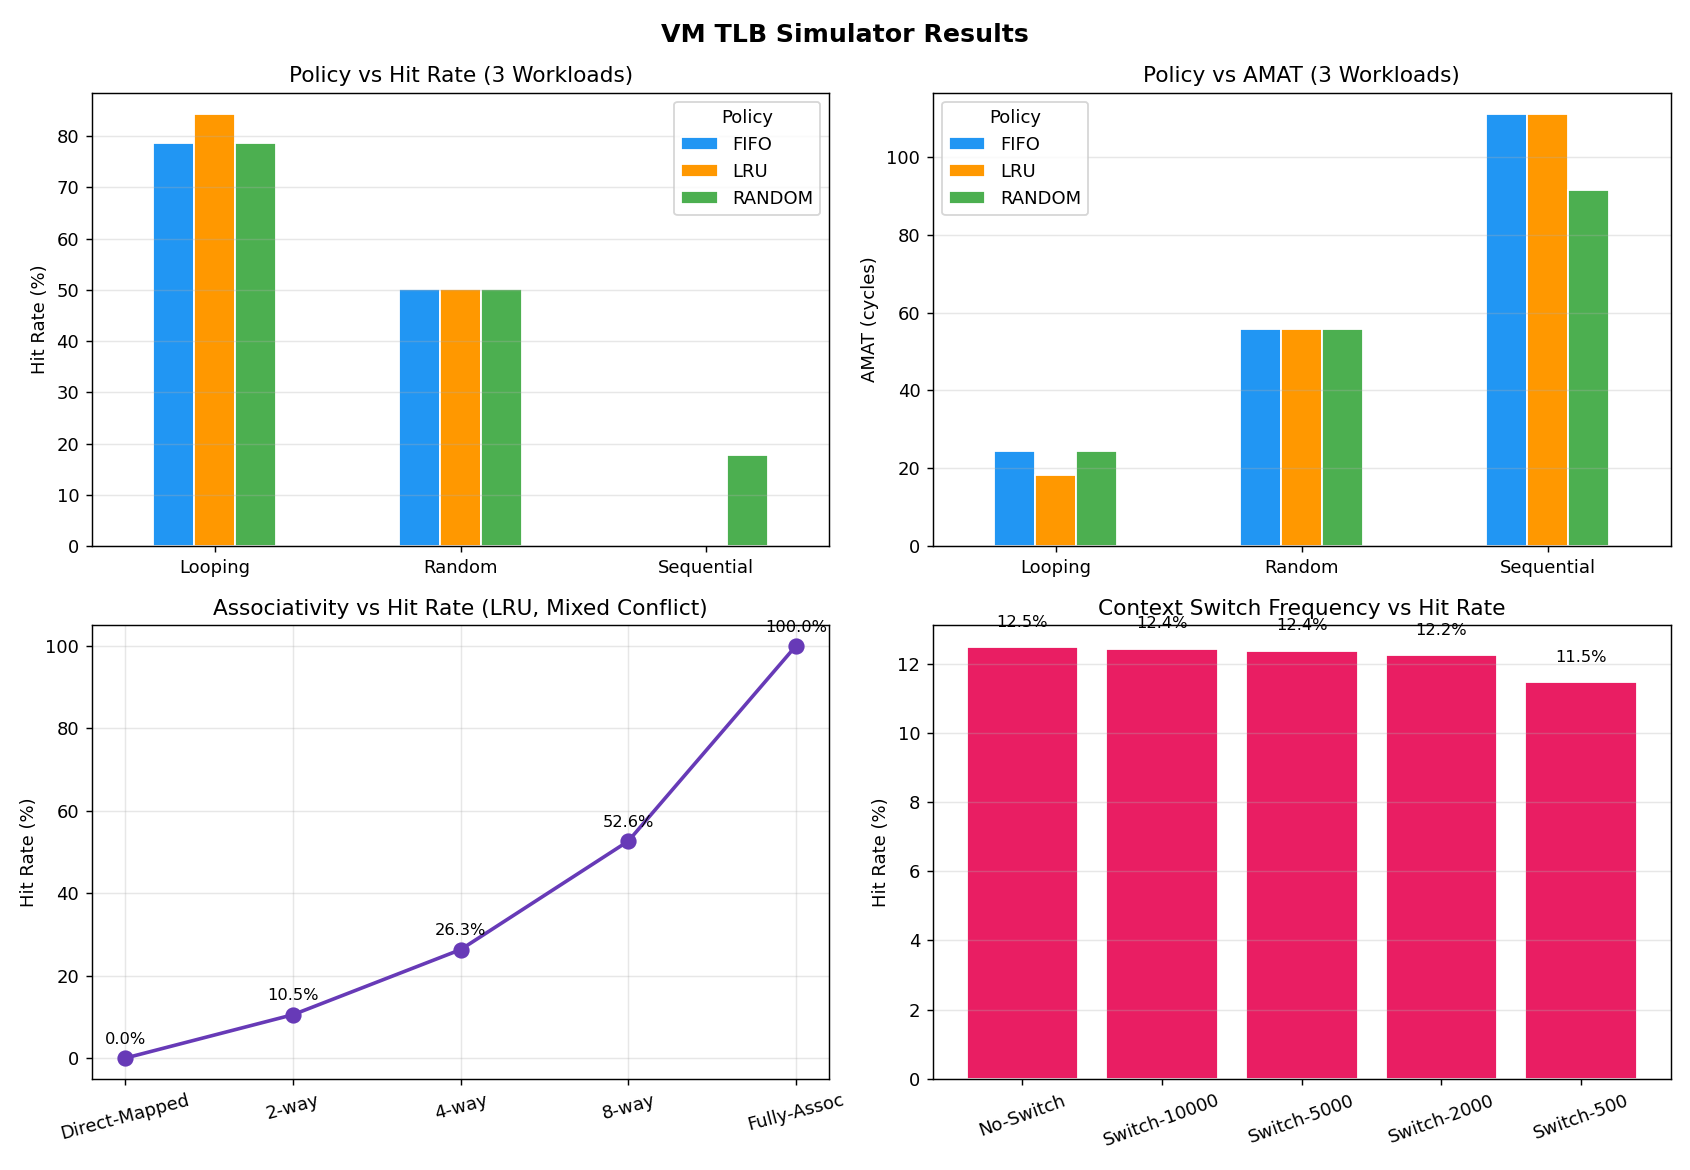
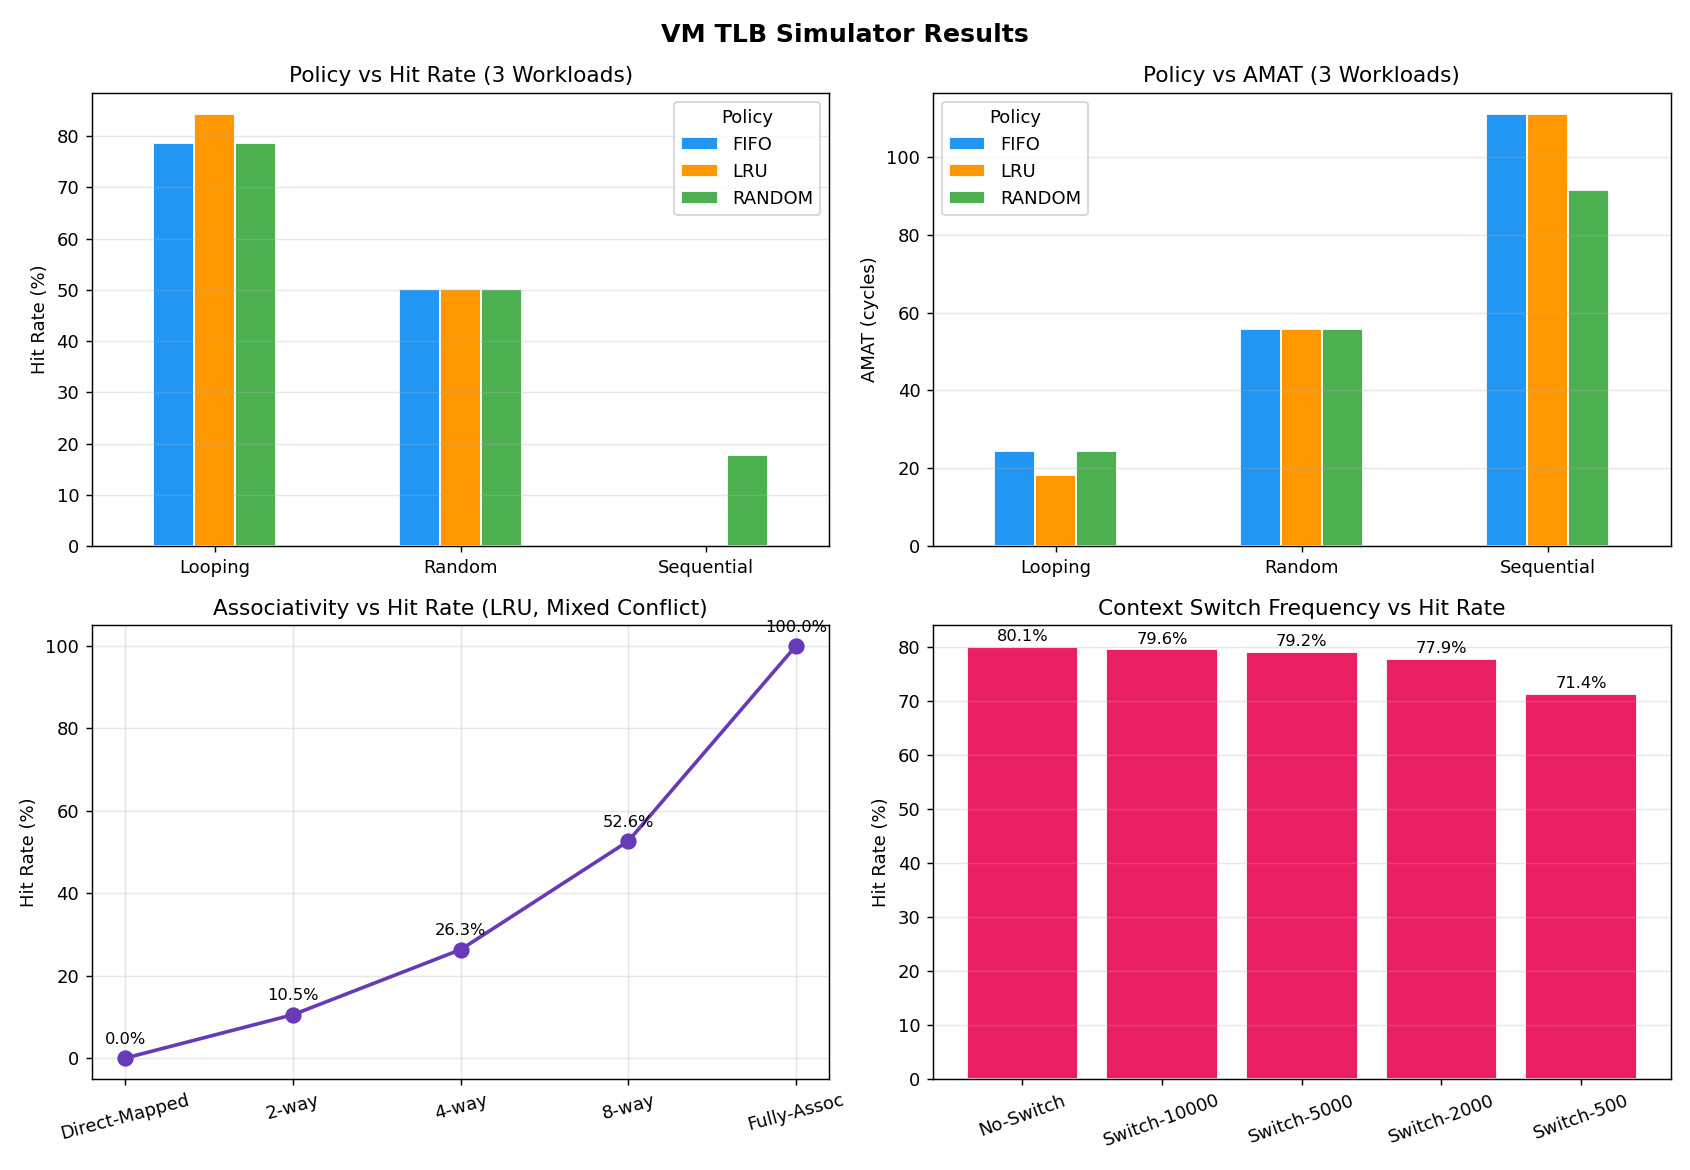
Updated few final comments

diff --git a/Project/VM_TLB_Simulator/WorkloadGenerator.h b/Project/VM_TLB_Simulator/WorkloadGenerator.h
@@ -23,9 +23,9 @@ public:
                                      int hot_pages = 50) // used for LOOPING and WORKING_SET. Number of frequently reused pages.
                                      
     {
-        static std::mt19937 rng(42);
+        static std::mt19937 rng(42); //Mersenne Twister random number generator seeded with a fixed value for reproducibility
         
-        std::vector<int> trace; //creates a vector to hold the generated memory access trace
+        std::vector<int> trace; //creates an empty vector to hold the generated memory access trace
         trace.reserve(accesses); //reserves memory for the specified number of accesses (pre-allocates memory)
 
         switch (type) {
@@ -70,6 +70,8 @@ public:
         }
 
         case WorkloadType::WORKING_SET: {
+            int hot_pages = max_address / page_size; //80 hot pages by default
+
             if (hot_pages <= 0) return trace; // Guard against invalid or no hot_pages
 
             std::vector<int> hot_addrs; //Creates a vector of hot addresses
@@ -80,47 +82,41 @@ public:
             }
 
             for (int i = 0; i < accesses; i++) { //Generates accesses by repeatedly cycling through the hot addresses
+               // int idx = i % hot_pages; // cycle through working set
+                int idx = rand() % hot_pages; // randomize within working set
+                trace.push_back(hot_addrs[idx]);                
             }
             break;
         }
 
         case WorkloadType::CONFLICT: {
             // This workload is designed to demonstrate associativity more logically.
-            // Pages in each group differ by 64 VPNs, so they alias to the same set
-            // for num_sets = 64, 32, 16, and 8.
-            //
-            // Group sizes:
-            //   2-page group -> fits in 2-way and above
-            //   3-page group -> fits in 4-way and above
-            //   5-page group -> fits in 8-way and above
-            //   7-page group -> strong pressure, still fits in fully-associative
-            //
-            // Total unique VPNs = 2 + 3 + 5 + 7 = 17 (< 64),
-            // so fully-associative should approach 100% after warmup.
+            // It creates pages that map to the same TLB sets.
 
-            const int stride = 64;
+            const int stride = 64; //because TLB size is 64 entries, this stride will cause all addresses to map to the same set in a direct-mapped TLB, and create varying levels of conflict for higher associativities.
 
-            std::vector<std::vector<int>> groups;
-
-            auto make_group = [&](int base, int size) {
+            std::vector<std::vector<int>> groups; //stores groups of addresses that will conflict with each other (maps to same set index of TLB) in the TLB. 
+            auto make_group = [&](int base, int size) { //base is the starting page number, size is how many pages in the group.
+                
                 std::vector<int> g;
                 g.reserve(size);
+                
                 for (int k = 0; k < size; k++) {
                     int vpn = base + k * stride;
-                    g.push_back(vpn * page_size);
+                    g.push_back(vpn * page_size); //convert VPN to a virtual address
                 }
                 return g;
             };
 
-            // base values kept below 8 so mapping stays clean for all tested configs
-            groups.push_back(make_group(0, 2)); // helps 2-way+
-            groups.push_back(make_group(1, 3)); // helps 4-way+
-            groups.push_back(make_group(2, 5)); // helps 8-way+
-            groups.push_back(make_group(3, 9)); // strongest pressure
+            // test groups designed to create different levels of conflict for different associativities:
+            groups.push_back(make_group(0, 2));  // Two pages competing in one set
+            groups.push_back(make_group(1, 3)); 
+            groups.push_back(make_group(2, 5)); 
+            groups.push_back(make_group(3, 9)); 
 
             while ((int)trace.size() < accesses) {
-                for (const auto& g : groups) {
-                    for (int addr : g) {
+                for (const auto &g : groups) { //Loop through each conflict group
+                    for (int addr : g) { //Loop through each address in the group
                         if ((int)trace.size() >= accesses) break;
                         trace.push_back(addr);
                     }

diff --git a/Project/VM_TLB_Simulator/main.cpp b/Project/VM_TLB_Simulator/main.cpp
@@ -119,12 +119,12 @@ std::vector<SimulationResult> exp_assoc(int accesses, int page_size) {
 // 512 VPNs random — enough reuse that TLB warmup matters
 // Each flush kills warm TLB entries, clearly visible at high flush frequencies
 std::vector<SimulationResult> exp_ctx(int accesses, int page_size) {
-    printHeader("EXP 3: Context Switch Impact (LRU, 4-way, Random)");
+    printHeader("EXP 3: Context Switch Impact (LRU, 4-way, Working_Set)");
 
-    const int max_addr = 512 * page_size;
+    const int max_addr = 80 * page_size;
     
     auto trace = WorkloadGenerator::generate(accesses, max_addr,
-                     WorkloadGenerator::WorkloadType::RANDOM, page_size); // Generate a random workload with 512 unique VPNs
+                     WorkloadGenerator::WorkloadType::WORKING_SET, page_size); // Generate a working set workload with 80 unique VPNs
 
     std::vector<int> intervals = {0, 10000, 5000, 2000, 500}; // Context switch intervals (0 means no context switches, 10,000 means flush every 10k accesses, etc.)
     

diff --git a/Project/VM_TLB_Simulator/PageTable.h b/Project/VM_TLB_Simulator/PageTable.h
@@ -1,9 +1,7 @@
 #ifndef PAGETABLE_H
 #define PAGETABLE_H
 
-//#include <vector>
 #include <unordered_map>
-//#include <stdexcept>
 
 // ─────────────────────────────────────────────────────────────────────────────
 //  Two-Level Page Table

diff --git a/Project/VM_TLB_Simulator/TLB.h b/Project/VM_TLB_Simulator/TLB.h
@@ -3,7 +3,6 @@
 
 #include <vector>
 #include <cstdlib>
-//#include <climits>
 #include <string>
 
 // Replacement policy enumeration
